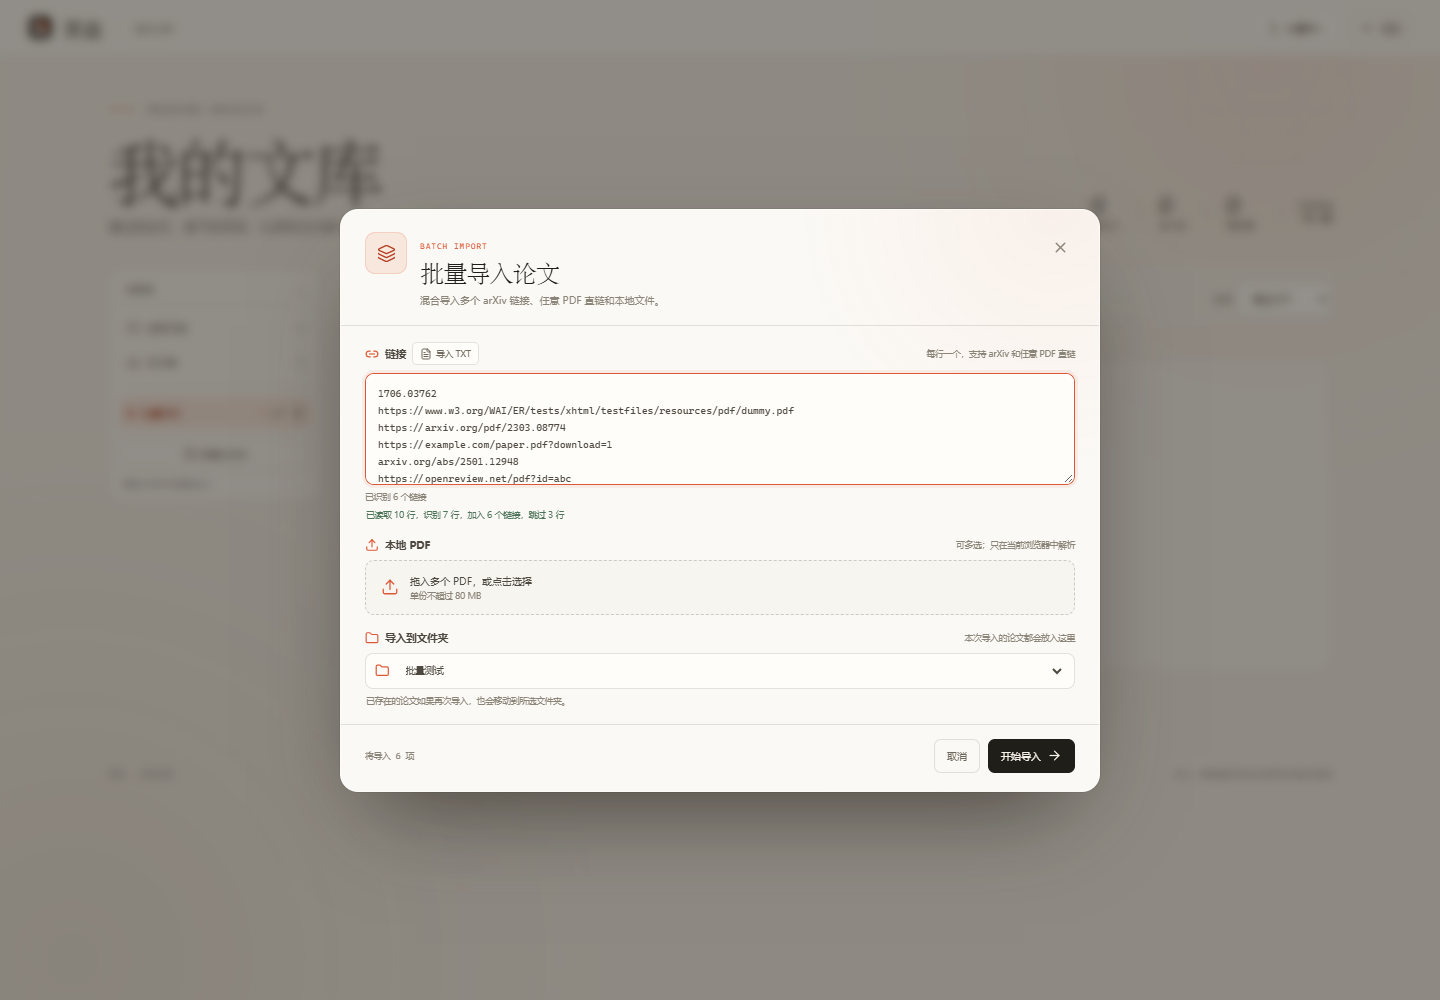
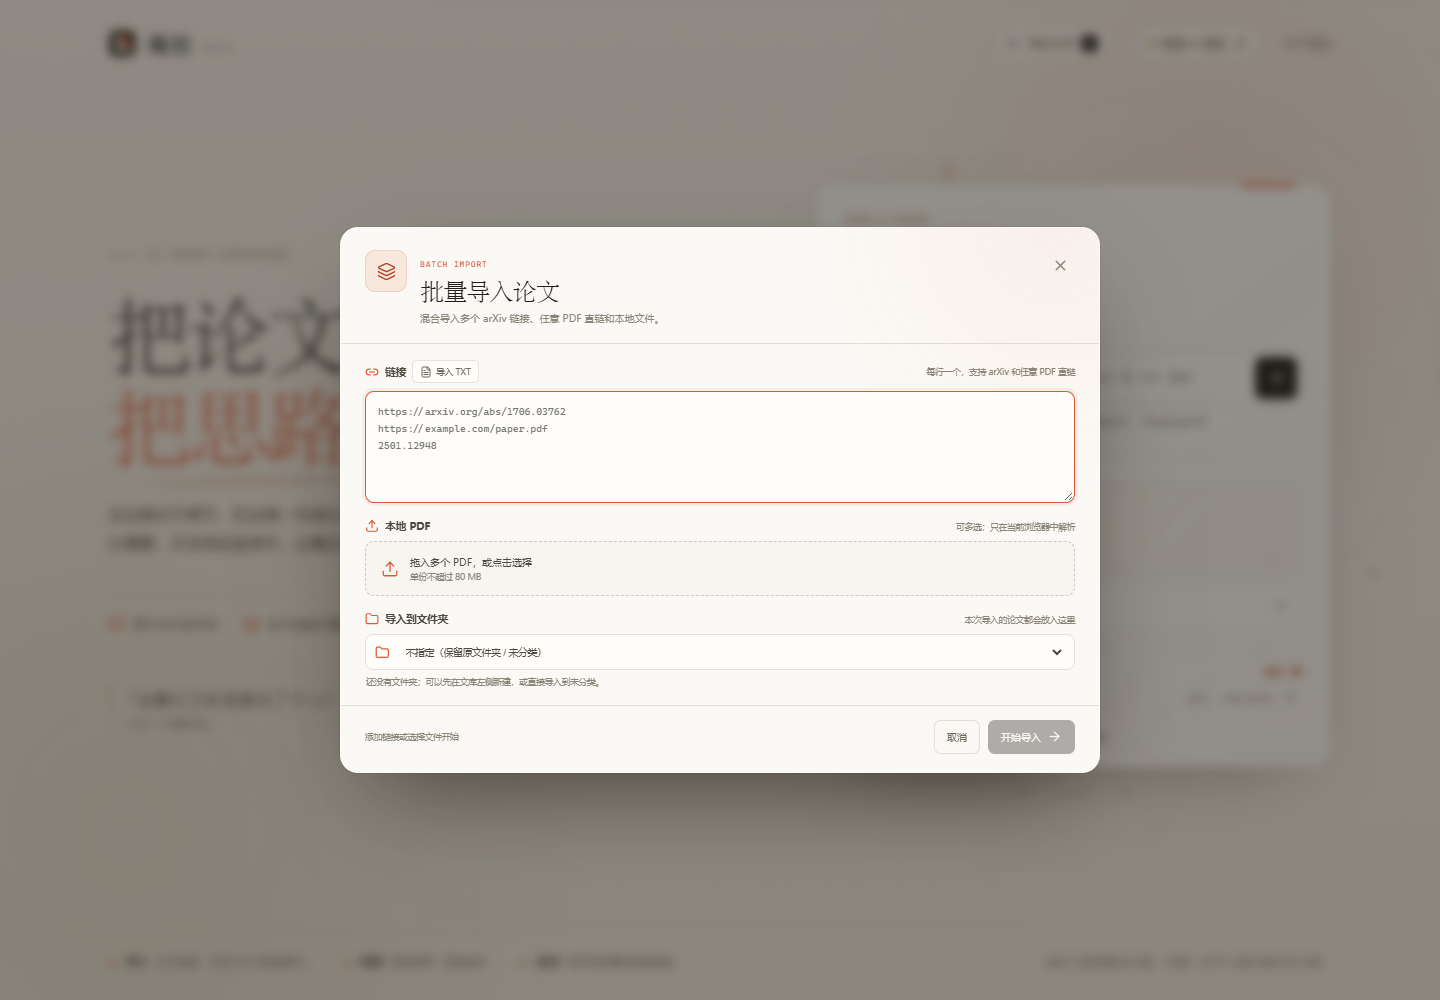
chore: rename product to Haila

diff --git a/src/components/Landing.tsx b/src/components/Landing.tsx
@@ -101,7 +101,7 @@ export function Landing({
             <Sparkles size={13} strokeWidth={1.8} />
           </button>
           <a className="nav-link" href="#how">
-            关于页边
+            关于海拉
           </a>
         </div>
       </header>
@@ -343,7 +343,7 @@ export function Landing({
           <strong>追问</strong>
           <span>有页码依据的逐段解读</span>
         </div>
-        <p>页边不是摘要生成器，而是一张可以随时提问的书桌。</p>
+        <p>海拉不是摘要生成器，而是一张可以随时提问的书桌。</p>
       </footer>
     </div>
   );

diff --git a/src/components/SettingsModal.tsx b/src/components/SettingsModal.tsx
@@ -265,7 +265,7 @@ export function SettingsModal({ open, config, server, onClose, onSave }: Setting
           <div>
             <span className="card-kicker">MODEL CONNECTION</span>
             <h2 id="settings-title">连接 AI 模型</h2>
-            <p>页边通过你选择的模型来解读论文。</p>
+            <p>海拉通过你选择的模型来解读论文。</p>
           </div>
           <button type="button" className="icon-button modal-close" onClick={onClose} aria-label="关闭">
             <X size={18} />

diff --git a/index.html b/index.html
@@ -6,10 +6,10 @@
     <meta name="theme-color" content="#f4f0e8" />
     <meta
       name="description"
-      content="页边 · 将 arXiv 论文或本地 PDF 与 AI 精读对话并排放在一起。"
+      content="海拉 · 将 arXiv 论文或本地 PDF 与 AI 精读对话并排放在一起。"
     />
     <link rel="icon" type="image/svg+xml" href="/favicon.svg" />
-    <title>页边 · AI 论文精读</title>
+    <title>海拉 · AI 论文精读</title>
   </head>
   <body>
     <div id="root"></div>

diff --git a/src/components/Logo.tsx b/src/components/Logo.tsx
@@ -32,8 +32,8 @@ export function Logo({ compact = false }: { compact?: boolean }) {
     <span className={`logo ${compact ? 'logo--compact' : ''}`}>
       <LogoMark size={compact ? 25 : 29} />
       <span className="logo-type">
-        <span className="logo-cn">页边</span>
-        {!compact && <span className="logo-en">PageMargin</span>}
+        <span className="logo-cn">海拉</span>
+        {!compact && <span className="logo-en">Haila</span>}
       </span>
     </span>
   );

diff --git a/src/components/ChatPanel.tsx b/src/components/ChatPanel.tsx
@@ -138,8 +138,8 @@ function MessageItem({
   return (
     <article className="message message--assistant">
       <div className="assistant-identity">
-        <span className="assistant-avatar">页</span>
-        <span className="assistant-name">页边</span>
+        <span className="assistant-avatar">海</span>
+        <span className="assistant-name">海拉</span>
         {isStreamingThis && (
           <span className="generating-label">
             <i />

diff --git a/src/components/TranslationPopover.tsx b/src/components/TranslationPopover.tsx
@@ -188,7 +188,7 @@ export function TranslationPopover({
           </span>
           <div>
             <strong>配置模型后自动翻译</strong>
-            <p>划词翻译会使用你为页边配置的模型。</p>
+            <p>划词翻译会使用你为海拉配置的模型。</p>
           </div>
           <button type="button" onClick={onOpenSettings}>
             去配置

diff --git a/src/App.tsx b/src/App.tsx
@@ -172,7 +172,7 @@ export default function App() {
   }, [activeThreadId]);
 
   useEffect(() => {
-    document.title = paper ? `${paper.meta.title.slice(0, 64)} · 页边` : '页边 · AI 论文精读';
+    document.title = paper ? `${paper.meta.title.slice(0, 64)} · 海拉` : '海拉 · AI 论文精读';
   }, [paper]);
 
   useEffect(() => {

diff --git a/src/components/LibraryModal.tsx b/src/components/LibraryModal.tsx
@@ -754,7 +754,7 @@ export function LibraryModal({
           </div>
         </main>
         <footer className="library-footer">
-          <span>页边 · 本地文库</span>
+          <span>海拉 · 本地文库</span>
           <span>论文、阅读进度和对话均保存在当前浏览器</span>
         </footer>
       </div>

diff --git a/README.md b/README.md
@@ -1,4 +1,4 @@
-# 页边 · PageMargin
+# 海拉 · Haila
 
 把论文读薄，把思路读厚。左侧显示论文原始 PDF，右侧是一个读过全文、回答带页码的 AI 精读伙伴。
 
